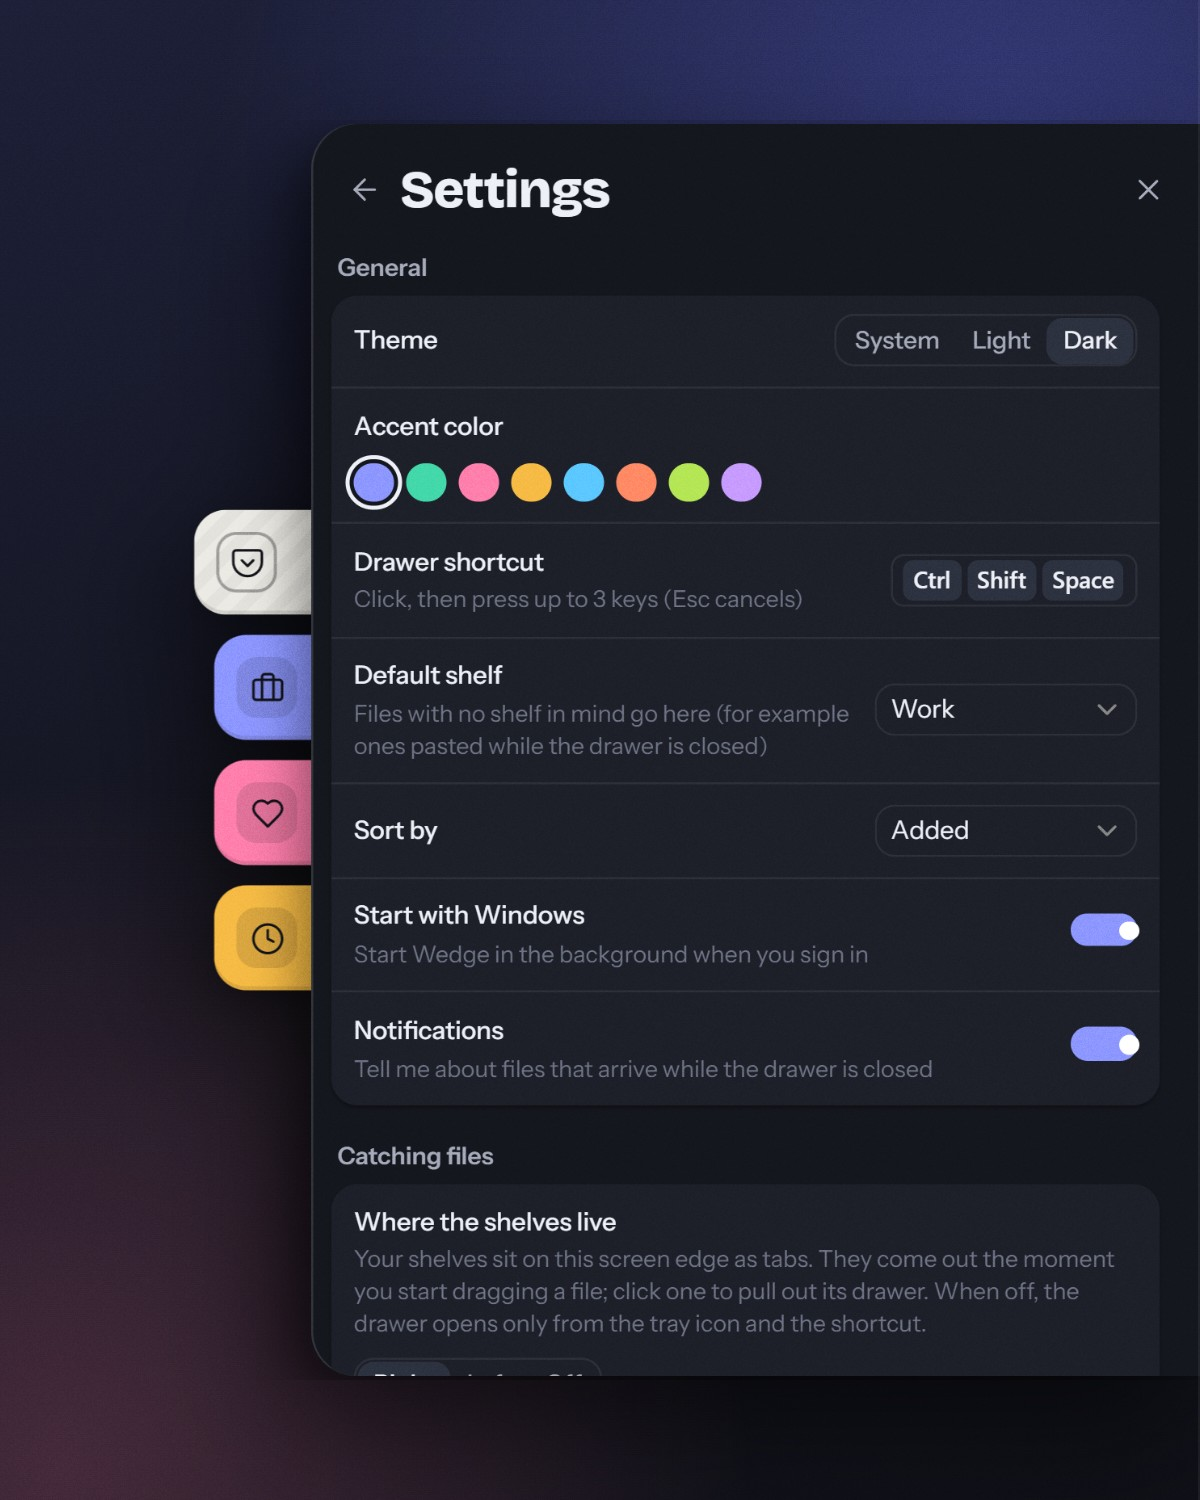
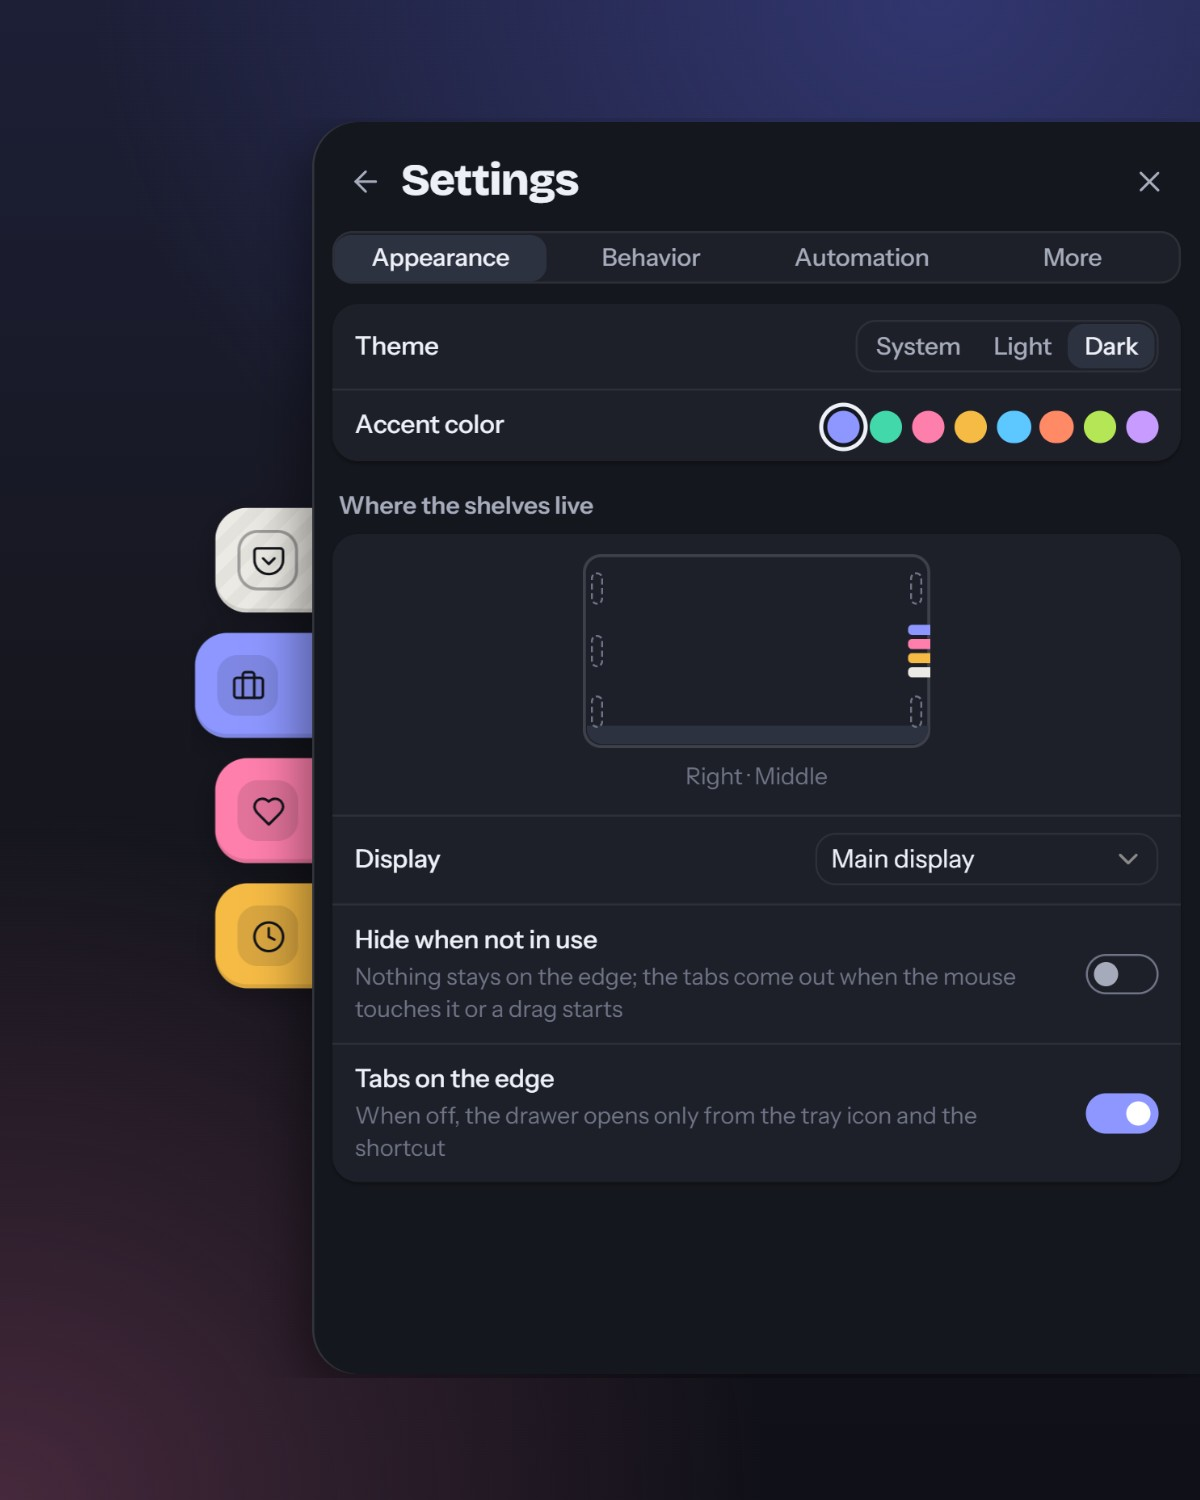
Wedge 2.1: what's new, the new settings, two more answers
The badge above the title says what 2.1 brings (tabs that hide away,
10 languages), the features list the edge and display choice, links and
text dropped on a shelf and the ten languages, the settings screen is
the new four-tab one, and the FAQ answers how to move or hide the tabs
and which languages Wedge speaks.

diff --git a/src/lib/i18n.tsx b/src/lib/i18n.tsx
@@ -42,6 +42,7 @@ const en = {
   },
   hero: {
     renamed: 'Stash is now Wedge',
+    news: 'New: tabs that hide away, 10 languages',
     title: 'Wedge your files into the edge of your screen.',
     tagline:
       'Start dragging a file and your shelves slide out. Drop it, keep working, and drag it into any app when you need it. Your files stay where they are.',
@@ -82,7 +83,7 @@ const en = {
           'Tabs that slide out the moment you drag a file',
           'A Pocket that gathers files from different folders, then lets you drag them all out at once',
           'Automatic shelves for new downloads and screenshots',
-          'Right-click → Add to Wedge, Ctrl+V, or send from your phone with a QR code',
+          'Right-click → Add to Wedge, Ctrl+V, a link or text dragged from any app, or your phone with a QR code',
         ],
       },
       {
@@ -104,9 +105,10 @@ const en = {
       {
         title: 'Quiet by design',
         items: [
+          'Either edge, at the top, middle or bottom, on the display you pick, or out of sight until you need them',
           'No CPU use while it waits at the edge',
           'Steps aside for full-screen games, videos and presentations',
-          'Desktop widgets, dark and light themes, Turkish and English',
+          'Desktop widgets, dark and light themes, 10 languages',
           'No account, no ads, no telemetry',
         ],
       },
@@ -154,9 +156,9 @@ const en = {
       },
       {
         src: '/screens/en/settings.jpg',
-        alt: 'Wedge settings',
+        alt: 'Wedge settings, Appearance tab: theme, accent color and where the shelves sit',
         caption: 'Settings',
-        body: 'Theme, accent color, shortcut, what to catch.',
+        body: 'Four tabs. Pick the edge, the spot and the display.',
       },
     ],
   },
@@ -191,6 +193,14 @@ const en = {
       {
         q: 'How does it know I’m dragging a file?',
         a: 'Windows shows a small picture next to the cursor while you drag files. Wedge notices that picture appear and disappear; it doesn’t read your keyboard or mouse.',
+      },
+      {
+        q: 'Can I move the tabs, or hide them?',
+        a: 'Yes. In Settings → Appearance, pick the left or right edge, the top, middle or bottom, and the display. Turn on “Hide when not in use” and nothing stays on the edge: the tabs come out when the mouse touches it or a drag starts.',
+      },
+      {
+        q: 'Which languages does it speak?',
+        a: 'English, Turkish, Russian, French, Spanish, German, Portuguese (Brazil), Italian, Polish and Japanese. Wedge follows the language of Windows.',
       },
       {
         q: 'Does it need an account or upload anything?',
@@ -259,6 +269,7 @@ const tr: Dict = {
   },
   hero: {
     renamed: 'Stash artık Wedge',
+    news: 'Yeni: gizlenen sekmeler, 10 dil',
     title: 'Dosyalarını ekranının kenarına sıkıştır.',
     tagline:
       'Bir dosyayı sürüklemeye başla, rafların kenardan çıksın. Bırak, işine devam et; gerektiğinde istediğin uygulamaya sürükle. Dosyaların yerinde kalır.',
@@ -299,7 +310,7 @@ const tr: Dict = {
           'Bir dosyayı sürüklediğin an kenardan çıkan sekmeler',
           'Farklı klasörlerden dosya toplayıp hepsini bir seferde sürükleyebileceğin Cep',
           'Yeni indirmeler ve ekran görüntüleri için otomatik raflar',
-          'Sağ tık → Wedge’e ekle, Ctrl+V ya da QR kodla telefondan gönder',
+          'Sağ tık → Wedge’e ekle, Ctrl+V, herhangi bir uygulamadan sürüklenen link ya da yazı, ya da QR kodla telefondan',
         ],
       },
       {
@@ -321,9 +332,10 @@ const tr: Dict = {
       {
         title: 'Sessiz çalışır',
         items: [
+          'Sol ya da sağ kenarda; üstte, ortada ya da altta; seçtiğin ekranda, ya da gerekene kadar gizli',
           'Kenarda beklerken işlemciyi kullanmaz',
           'Tam ekran oyun, video ve sunumlarda kenara çekilir',
-          'Masaüstü bileşenleri, koyu ve açık tema, Türkçe ve İngilizce',
+          'Masaüstü bileşenleri, koyu ve açık tema, 10 dil',
           'Hesap yok, reklam yok, veri toplama yok',
         ],
       },
@@ -370,9 +382,9 @@ const tr: Dict = {
       },
       {
         src: '/screens/tr/settings.jpg',
-        alt: 'Wedge ayarları',
+        alt: 'Wedge ayarları, Görünüm sekmesi: tema, vurgu rengi ve rafların yeri',
         caption: 'Ayarlar',
-        body: 'Tema, vurgu rengi, kısayol, nelerin yakalanacağı.',
+        body: 'Dört sekme. Kenarı, yeri ve ekranı seç.',
       },
     ],
   },
@@ -407,6 +419,14 @@ const tr: Dict = {
       {
         q: 'Dosya sürüklediğimi nereden biliyor?',
         a: 'Windows, dosya sürüklerken imlecin yanında küçük bir resim gösterir. Wedge bu resmin belirip kaybolduğunu fark eder; klavyeni ya da fareni okumaz.',
+      },
+      {
+        q: 'Sekmelerin yerini değiştirebilir, onları gizleyebilir miyim?',
+        a: 'Evet. Ayarlar → Görünüm’den sol ya da sağ kenarı; üst, orta ya da alt konumu ve ekranı seç. “Kullanılmazken gizle”yi açarsan kenarda hiçbir şey kalmaz: fare kenara değince ya da bir sürükleme başlayınca sekmeler çıkar.',
+      },
+      {
+        q: 'Hangi dilleri konuşuyor?',
+        a: 'Türkçe, İngilizce, Rusça, Fransızca, İspanyolca, Almanca, Portekizce (Brezilya), İtalyanca, Lehçe ve Japonca. Wedge, Windows’un diline uyar.',
       },
       {
         q: 'Hesap gerekiyor mu, bir şey yüklüyor mu?',

diff --git a/src/components/sections/Hero.tsx b/src/components/sections/Hero.tsx
@@ -23,9 +23,9 @@ export function Hero({ version, downloadUrl }: HeroProps) {
         <div className="min-w-0">
           <p className="inline-flex items-center gap-2 rounded-full bg-[var(--surface)] py-1 pr-3 pl-1 text-[12.5px] font-medium text-[var(--muted)] ring-1 ring-[var(--border)]">
             <span className="rounded-full bg-[var(--ink)] px-2 py-0.5 text-[11px] font-semibold text-white">
-              2.0
+              2.1
             </span>
-            {t.hero.renamed}
+            {t.hero.news}
           </p>
           <h1 className="mt-6 text-[clamp(2.6rem,6vw,4.4rem)] leading-[0.98] font-extrabold tracking-[-0.035em] text-[var(--foreground)]">
             {t.hero.title}

diff --git a/src/lib/constants.ts b/src/lib/constants.ts
@@ -13,7 +13,7 @@ export const SITE = {
   // In the Store as Wedge Shelf ("Wedge" was taken).
   msStore: 'https://apps.microsoft.com/detail/9nkp6wx9qgl7',
   repo: 'Regncreative/Wedge',
-  versionFallback: '2.0.0',
+  versionFallback: '2.1.0',
   shortcut: 'Ctrl+Shift+Space',
   productHunt: 'https://www.producthunt.com/products/stash-20',
 } as const
